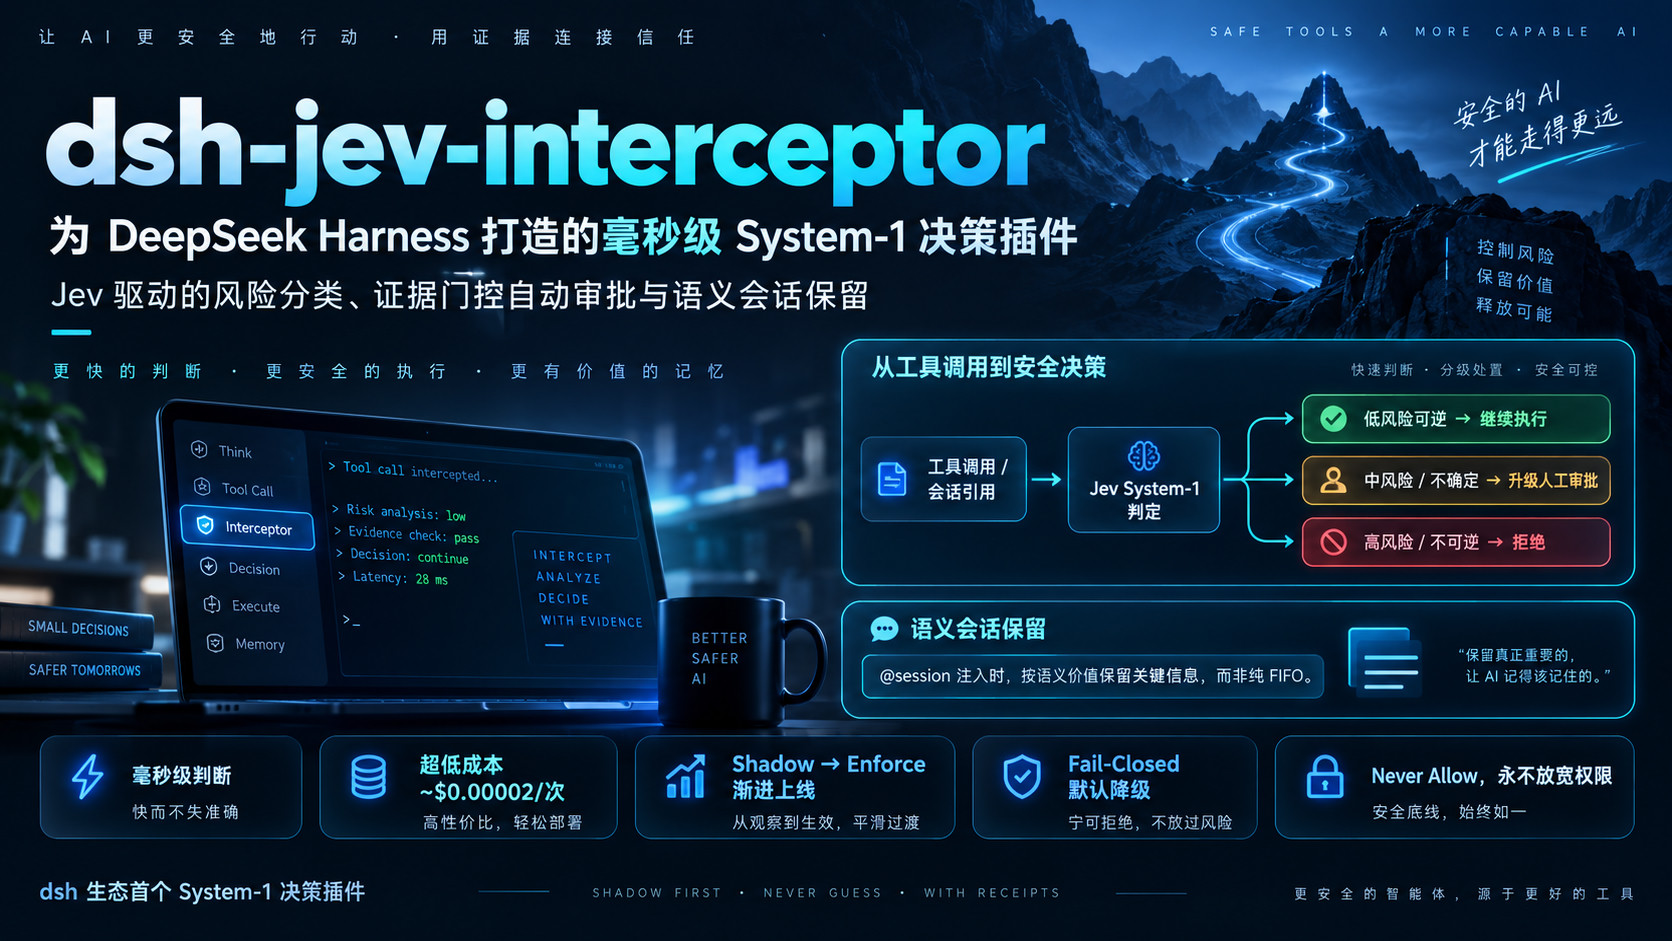
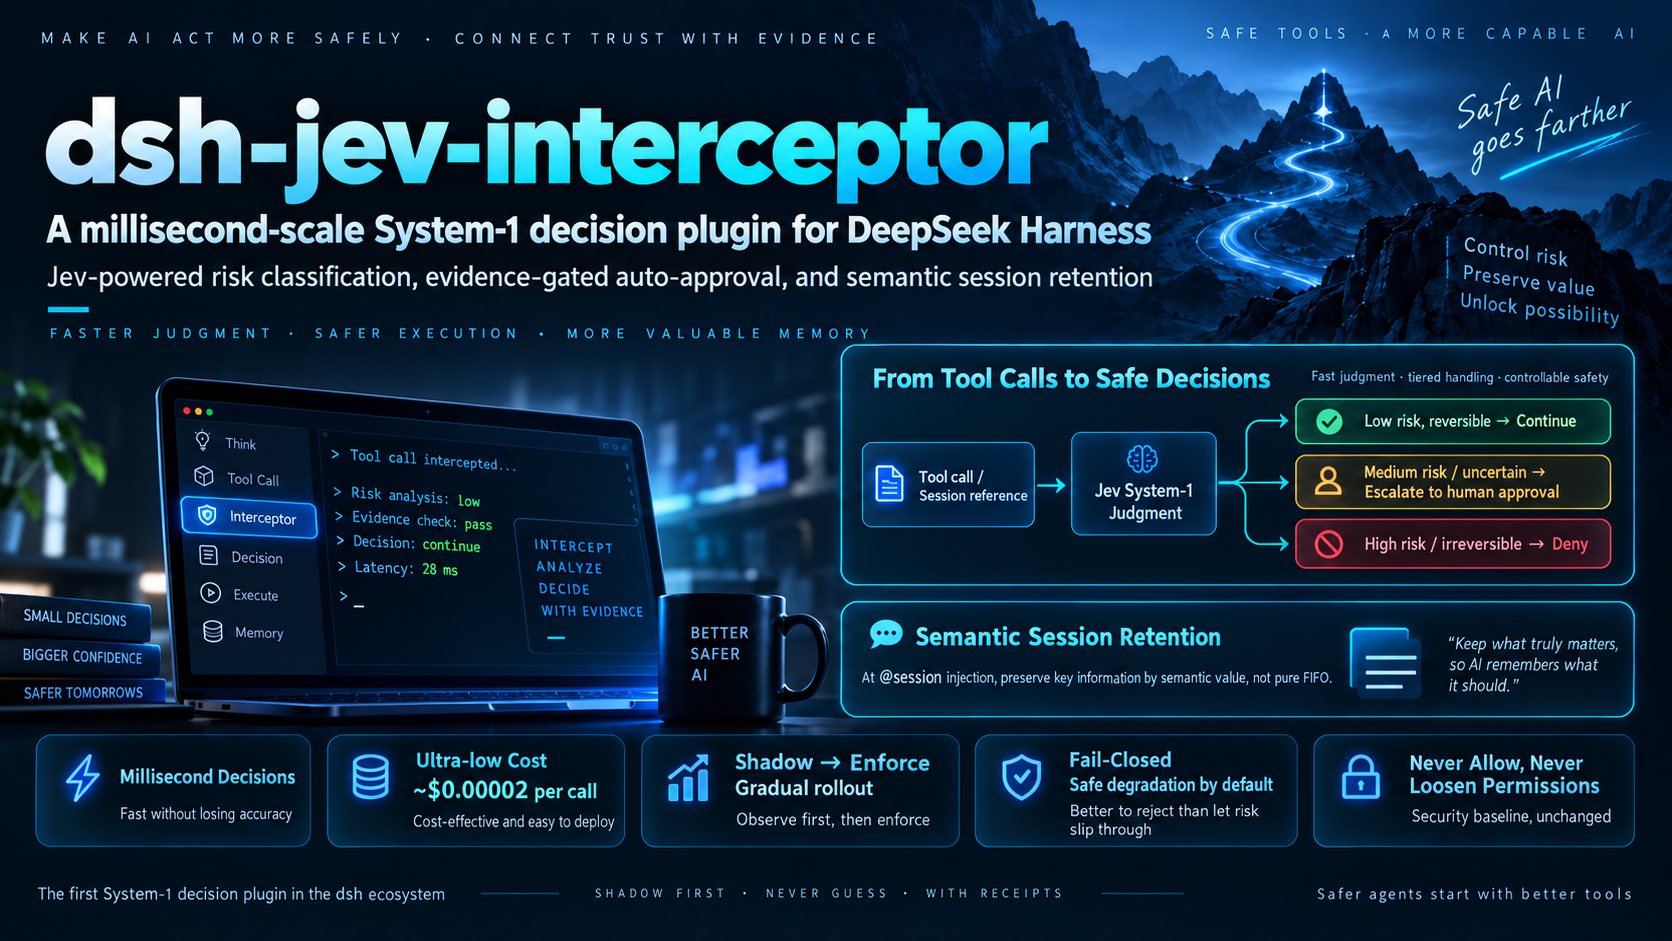
docs: update imgs with bilingual screenshots

diff --git a/README.zh.md b/README.zh.md
@@ -13,7 +13,7 @@
 
 中文 | [English](README.md)
 
-![dsh-jev-interceptor screenshot](imgs/screenshot-01.jpeg)
+![dsh-jev-interceptor screenshot](imgs/screenshot-01-zh.jpeg)
 
 **一口气说完它做什么：** 工具调用执行前，Jev 用一次约 $0.00002 的请求完成风险、可逆性、任务匹配度、注入嫌疑四重分类——高置信高危直接拒绝，中风险升级人工，明确授权且可逆的不再浪费你点审批弹窗。而当 `@` 引用旧会话注入快照时，Jev 逐消息给它对当前任务的价值打分——**让错误堆栈活过字节预算，而不是最旧的那句寒暄**。任何存疑、超时、没 key，都降级回 dsh 原生行为。不需要配置任何"退路"，也绝无放宽权限的可能。
 
